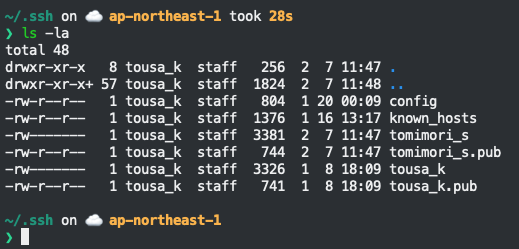
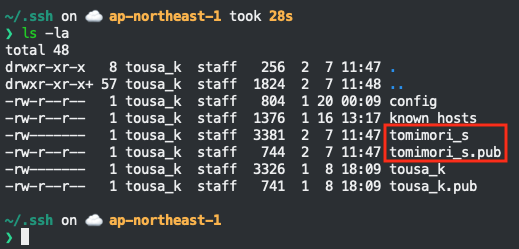
tmp commit

Changed region(s): [[0.7399, 0.4779, 0.9865, 0.6747]]

diff --git a/index.md b/index.md
@@ -71,7 +71,7 @@ $ git --version
 git version 2.25.0
 ```
 
-### ssh keyを作成してGitHubに登録する
+### ssh keyを作成する
 
 ```
 # ~/.ssh = ssh関連のファイルは原則ここに入れる
@@ -85,10 +85,31 @@ $ ls -la
 -rw-------   1 tousa_k  staff  3381  2  7 11:47 tomimori_s
 -rw-r--r--   1 tousa_k  staff   744  2  7 11:47 tomimori_s.pub
 ```
+ssh-keygenコマンドを叩いた直後。パスフレーズ1回目を聞かれる。
 ![ssh_keygen1.png](./img/ssh_keygen_1.png)
+もう一度同じパスフレーズを入力。
 ![ssh_keygen2.png](./img/ssh_keygen_2.png)
+ssh keyが作られたところ。
 ![ssh_keygen3.png](./img/ssh_keygen_3.png)
+lsコマンドで中身を確認して`tomimori_s`と`tomimori_s.pub`ができていれば成功
 ![ssh_keygen4.png](./img/ssh_keygen_4.png)
+
+### 作成したssh keyをGitHubに登録する
+
+GitHub右上のメニューから`Settings`を選択
+![add_key_to_github_1.png](./img/add_key_to_github_1.png)
+`SSH and GPG keys`を選択
+![add_key_to_github_2.png](./img/add_key_to_github_2.png)
+`New SSH Key`を選択
+![add_key_to_github_3.png](./img/add_key_to_github_3.png)
+ここで一度ターミナルに戻って、コマンドを叩く。※`tomimori_s`ではなく、`tomimori_s.pub`であることに注意
+```
+$ cat ~/.ssh/tomimori_s.pub | pbcopy
+```
+![add_key_to_github_4.png](./img/add_key_to_github_4.png)
+GitHubに戻って貼り付けてから`Add SSH KEY`をクリック。タイトルは空でもOK。
+![add_key_to_github_5.png](./img/add_key_to_github_5.png)
+
 
 ## まずはレポジトリをcloneする
 
